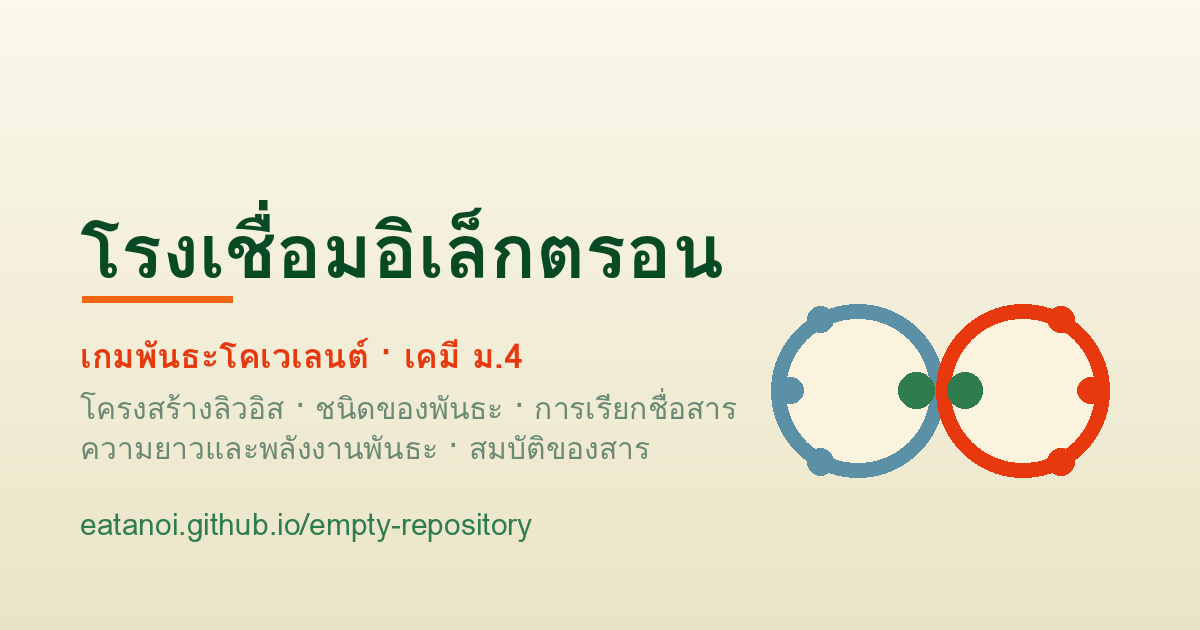
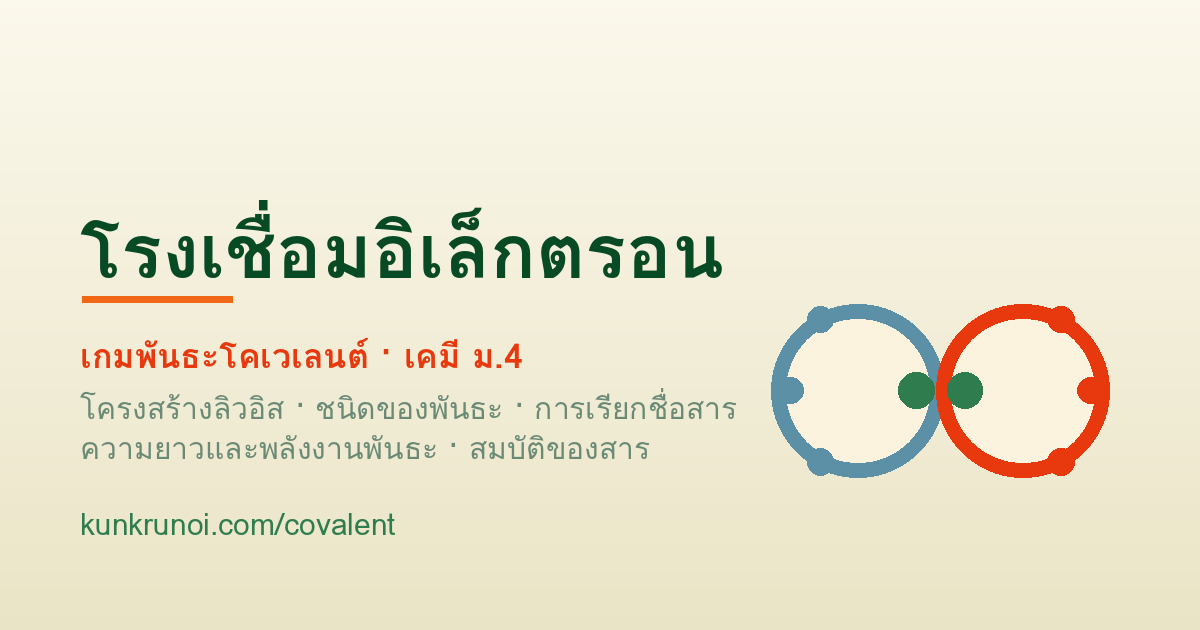
เปลี่ยนที่อยู่เว็บทั้งหมดเป็น kunkrunoi.com
เตรียมโค้ดให้พร้อมก่อนย้ายไปโดเมนของผู้สอน ลิงก์ภายในไม่ต้องแก้เลย
เพราะเป็นเส้นทางสัมพัทธ์ทั้งหมด service worker คำนวณโฟลเดอร์ฐานจาก
ตำแหน่งจริงตอนรัน และ manifest ทุกไฟล์ใช้ start_url แบบสัมพัทธ์

- og:url · og:image · twitter:image ทั้ง 10 หน้า ชี้มาที่โดเมนใหม่
- วาดข้อความโดเมนในภาพพรีวิวสำหรับแชร์ใหม่ 8 รูป โดยสร้างจาก
  สคริปต์เดิม เปลี่ยนเฉพาะบรรทัดที่อยู่เว็บ ส่วนอื่นของภาพเหมือนเดิมทุกพิกเซล
  ภาพของเกมการหายใจที่ยังค้างโดเมนเก่า gamesbiology.biologypremium.com
  ก็แก้ไปพร้อมกัน
- เขียนขั้นตอนผูกโดเมนใน ADDGAME.md ใหม่ให้ตรงกับที่ใช้จริง
  พร้อมย้ำลำดับว่าต้องตั้ง DNS ก่อนใส่ Custom domain
- ขึ้นเวอร์ชันแคช service worker ทุกเกม

ยังไม่ใส่ไฟล์ CNAME เพราะ GitHub จะสร้างให้เองตอนกรอก Custom domain
ถ้าใส่ล่วงหน้า ลิงก์ github.io จะเด้งไปหาโดเมนที่ยังไม่พร้อมทันที

Claude-Session: https://claude.ai/code/session_01VVXuCQnagFxs2vNyxUyT5H

Changed region(s): [[0.0617, 0.8143, 0.4625, 0.8746]]

diff --git a/respiration/index.html b/respiration/index.html
@@ -21,10 +21,10 @@
 
 <!-- พรีวิวตอนแชร์ลิงก์ใน LINE / Facebook / Messenger -->
 <meta property="og:type" content="website">
-<meta property="og:url" content="https://eatanoi.github.io/empty-repository/respiration/">
+<meta property="og:url" content="https://kunkrunoi.com/respiration/">
 <meta property="og:title" content="โรงไฟฟ้าไมโทคอนเดรีย — เกมการหายใจระดับเซลล์">
 <meta property="og:description" content="เกมประกอบการเรียนรู้ชีววิทยา ม.4 · ไกลโคไลซิส เครบส์ ถ่ายทอดอิเล็กตรอน การหมัก">
-<meta property="og:image" content="https://eatanoi.github.io/empty-repository/respiration/og-cai.jpg">
+<meta property="og:image" content="https://kunkrunoi.com/respiration/og-cai.jpg">
 <meta property="og:image:width" content="1200">
 <meta property="og:image:height" content="630">
 <meta property="og:image:alt" content="บทเรียนคอมพิวเตอร์ช่วยสอน เรื่องการหายใจระดับเซลล์ ชั้นมัธยมศึกษาปีที่ 4 พร้อมผังห้าขั้นตอนตั้งแต่ไกลโคไลซิสจนถึงออกซิเดทีฟฟอสโฟรีเลชัน">
@@ -32,7 +32,7 @@
 <meta name="twitter:card" content="summary_large_image">
 <meta name="twitter:title" content="โรงไฟฟ้าไมโทคอนเดรีย — เกมการหายใจระดับเซลล์">
 <meta name="twitter:description" content="เกมประกอบการเรียนรู้ชีววิทยา ม.4 · เล่นบนมือถือได้เลย">
-<meta name="twitter:image" content="https://eatanoi.github.io/empty-repository/respiration/og-cai.jpg">
+<meta name="twitter:image" content="https://kunkrunoi.com/respiration/og-cai.jpg">
 <style>
 :root{
   /* ── พาเลตเดียวกับเกมสังเคราะห์แสง: F2EDD5 · E7390D · F26716 · 084A24 · 04261E ── */

diff --git a/index.html b/index.html
@@ -20,10 +20,10 @@
 
 <!-- พรีวิวตอนแชร์ลิงก์ใน LINE / Facebook / Messenger -->
 <meta property="og:type" content="website">
-<meta property="og:url" content="https://eatanoi.github.io/empty-repository/">
+<meta property="og:url" content="https://kunkrunoi.com/">
 <meta property="og:title" content="เกมชีววิทยาและเคมี ม.4 — รวมเกมประกอบการเรียนรู้">
 <meta property="og:description" content="รวมเกม 9 เกมในที่เดียว · เล่นบนมือถือได้ · ส่งคะแนนเข้าแดชบอร์ดครู">
-<meta property="og:image" content="https://eatanoi.github.io/empty-repository/og-cover.png">
+<meta property="og:image" content="https://kunkrunoi.com/og-cover.png">
 <meta property="og:image:width" content="1200">
 <meta property="og:image:height" content="630">
 <meta property="og:image:alt" content="หน้ารวมเกมประกอบการเรียนรู้ชีววิทยาและเคมี ระดับชั้นมัธยมศึกษาปีที่ 4">
@@ -31,7 +31,7 @@
 <meta name="twitter:card" content="summary_large_image">
 <meta name="twitter:title" content="เกมชีววิทยาและเคมี ม.4 — รวมเกมประกอบการเรียนรู้">
 <meta name="twitter:description" content="รวมเกม 9 เกมในที่เดียว · เล่นบนมือถือได้เลย">
-<meta name="twitter:image" content="https://eatanoi.github.io/empty-repository/og-cover.png">
+<meta name="twitter:image" content="https://kunkrunoi.com/og-cover.png">
 <style>
 :root{
   /* ── พาเลตเดียวกับทุกเกมในเว็บไซต์: F2EDD5 · E7390D · F26716 · 084A24 · 04261E ── */

diff --git a/transport/index.html b/transport/index.html
@@ -21,17 +21,17 @@
 
 <!-- พรีวิวตอนแชร์ลิงก์ใน LINE / Facebook / Messenger -->
 <meta property="og:type" content="website">
-<meta property="og:url" content="https://eatanoi.github.io/empty-repository/transport/">
+<meta property="og:url" content="https://kunkrunoi.com/transport/">
 <meta property="og:title" content="ด่านศุลกากรเซลล์ — เกมการลำเลียงสารเข้าออกเซลล์">
 <meta property="og:description" content="เกมประกอบการเรียนรู้ชีววิทยา ม.4 · การแพร่ · ออสโมซิส · แอกทีฟทรานสปอร์ต · เอนโด/เอกโซไซโทซิส">
-<meta property="og:image" content="https://eatanoi.github.io/empty-repository/transport/og-cover.png">
+<meta property="og:image" content="https://kunkrunoi.com/transport/og-cover.png">
 <meta property="og:image:width" content="1200">
 <meta property="og:image:height" content="630">
 <meta property="og:locale" content="th_TH">
 <meta name="twitter:card" content="summary_large_image">
 <meta name="twitter:title" content="ด่านศุลกากรเซลล์ — เกมการลำเลียงสารเข้าออกเซลล์">
 <meta name="twitter:description" content="เกมประกอบการเรียนรู้ชีววิทยา ม.4 · เล่นบนมือถือได้เลย">
-<meta name="twitter:image" content="https://eatanoi.github.io/empty-repository/transport/og-cover.png">
+<meta name="twitter:image" content="https://kunkrunoi.com/transport/og-cover.png">
 <style>
 :root{
   /* ── พาเลตเดียวกับเกมสังเคราะห์แสง: F2EDD5 · E7390D · F26716 · 084A24 · 04261E ── */

diff --git a/genetics/index.html b/genetics/index.html
@@ -21,17 +21,17 @@
 
 <!-- พรีวิวตอนแชร์ลิงก์ใน LINE / Facebook / Messenger -->
 <meta property="og:type" content="website">
-<meta property="og:url" content="https://eatanoi.github.io/empty-repository/genetics/">
+<meta property="og:url" content="https://kunkrunoi.com/genetics/">
 <meta property="og:title" content="ภารกิจพันธุกรรม — เกมการถ่ายทอดลักษณะทางพันธุกรรม">
 <meta property="og:description" content="เกมประกอบการเรียนรู้ชีววิทยา ม.4 · 6 ด่าน + ด่านบอส เก็บดาว 21 ดวง">
-<meta property="og:image" content="https://eatanoi.github.io/empty-repository/genetics/og-cover.png">
+<meta property="og:image" content="https://kunkrunoi.com/genetics/og-cover.png">
 <meta property="og:image:width" content="1200">
 <meta property="og:image:height" content="630">
 <meta property="og:locale" content="th_TH">
 <meta name="twitter:card" content="summary_large_image">
 <meta name="twitter:title" content="ภารกิจพันธุกรรม — เกมการถ่ายทอดลักษณะทางพันธุกรรม">
 <meta name="twitter:description" content="เกมประกอบการเรียนรู้ชีววิทยา ม.4 · เล่นบนมือถือได้เลย">
-<meta name="twitter:image" content="https://eatanoi.github.io/empty-repository/genetics/og-cover.png">
+<meta name="twitter:image" content="https://kunkrunoi.com/genetics/og-cover.png">
 <style>
 :root{
   /* ── พาเลตเดียวกับเกมมหานครเซลล์ · ด่านศุลกากรเซลล์ · โรงไฟฟ้าไมโทคอนเดรีย ── */

diff --git a/cell/index.html b/cell/index.html
@@ -21,17 +21,17 @@
 
 <!-- พรีวิวตอนแชร์ลิงก์ใน LINE / Facebook / Messenger -->
 <meta property="og:type" content="website">
-<meta property="og:url" content="https://eatanoi.github.io/empty-repository/cell/">
+<meta property="og:url" content="https://kunkrunoi.com/cell/">
 <meta property="og:title" content="มหานครเซลล์ — เกมโครงสร้างและหน้าที่ของเซลล์">
 <meta property="og:description" content="เกมประกอบการเรียนรู้ชีววิทยา ม.4 · ออร์แกเนลล์ · เซลล์พืช–สัตว์ · เส้นทางโปรตีน · โพรคาริโอต–ยูคาริโอต">
-<meta property="og:image" content="https://eatanoi.github.io/empty-repository/cell/og-cover.png">
+<meta property="og:image" content="https://kunkrunoi.com/cell/og-cover.png">
 <meta property="og:image:width" content="1200">
 <meta property="og:image:height" content="630">
 <meta property="og:locale" content="th_TH">
 <meta name="twitter:card" content="summary_large_image">
 <meta name="twitter:title" content="มหานครเซลล์ — เกมโครงสร้างและหน้าที่ของเซลล์">
 <meta name="twitter:description" content="เกมประกอบการเรียนรู้ชีววิทยา ม.4 · เล่นบนมือถือได้เลย">
-<meta name="twitter:image" content="https://eatanoi.github.io/empty-repository/cell/og-cover.png">
+<meta name="twitter:image" content="https://kunkrunoi.com/cell/og-cover.png">
 <style>
 :root{
   /* ── พาเลตเดียวกับเกมสังเคราะห์แสง: F2EDD5 · E7390D · F26716 · 084A24 · 04261E ── */

diff --git a/reproduction/index.html b/reproduction/index.html
@@ -21,17 +21,17 @@
 
 <!-- พรีวิวตอนแชร์ลิงก์ใน LINE / Facebook / Messenger -->
 <meta property="og:type" content="website">
-<meta property="og:url" content="https://eatanoi.github.io/empty-repository/reproduction/">
+<meta property="og:url" content="https://kunkrunoi.com/reproduction/">
 <meta property="og:title" content="ภารกิจสืบสายชีวิต — เกมการสืบพันธุ์ของมนุษย์">
 <meta property="og:description" content="เกมประกอบการเรียนรู้ชีววิทยา ม.6 · ระบบสืบพันธุ์ · การสร้างสเปิร์มและเซลล์ไข่">
-<meta property="og:image" content="https://eatanoi.github.io/empty-repository/reproduction/og-cover.png">
+<meta property="og:image" content="https://kunkrunoi.com/reproduction/og-cover.png">
 <meta property="og:image:width" content="1200">
 <meta property="og:image:height" content="630">
 <meta property="og:locale" content="th_TH">
 <meta name="twitter:card" content="summary_large_image">
 <meta name="twitter:title" content="ภารกิจสืบสายชีวิต — เกมการสืบพันธุ์ของมนุษย์">
 <meta name="twitter:description" content="เกมประกอบการเรียนรู้ชีววิทยา ม.6 · เล่นบนมือถือได้เลย">
-<meta name="twitter:image" content="https://eatanoi.github.io/empty-repository/reproduction/og-cover.png">
+<meta name="twitter:image" content="https://kunkrunoi.com/reproduction/og-cover.png">
 <style>
 :root{
   /* ── พาเลตเดียวกับเกมสังเคราะห์แสง: F2EDD5 · E7390D · F26716 · 084A24 · 04261E ── */

diff --git a/covalent/index.html b/covalent/index.html
@@ -21,17 +21,17 @@
 
 <!-- พรีวิวตอนแชร์ลิงก์ใน LINE / Facebook / Messenger -->
 <meta property="og:type" content="website">
-<meta property="og:url" content="https://eatanoi.github.io/empty-repository/covalent/">
+<meta property="og:url" content="https://kunkrunoi.com/covalent/">
 <meta property="og:title" content="โรงเชื่อมอิเล็กตรอน — เกมพันธะโคเวเลนต์">
 <meta property="og:description" content="เกมประกอบการเรียนรู้เคมี ม.4 · พันธะโคเวเลนต์ · สูตรโครงสร้าง · สมบัติของสาร">
-<meta property="og:image" content="https://eatanoi.github.io/empty-repository/covalent/og-cover.png">
+<meta property="og:image" content="https://kunkrunoi.com/covalent/og-cover.png">
 <meta property="og:image:width" content="1200">
 <meta property="og:image:height" content="630">
 <meta property="og:locale" content="th_TH">
 <meta name="twitter:card" content="summary_large_image">
 <meta name="twitter:title" content="โรงเชื่อมอิเล็กตรอน — เกมพันธะโคเวเลนต์">
 <meta name="twitter:description" content="เกมประกอบการเรียนรู้เคมี ม.4 · เล่นบนมือถือได้เลย">
-<meta name="twitter:image" content="https://eatanoi.github.io/empty-repository/covalent/og-cover.png">
+<meta name="twitter:image" content="https://kunkrunoi.com/covalent/og-cover.png">
 <style>
 :root{
   /* ── พาเลตเดียวกับเกมสังเคราะห์แสง: F2EDD5 · E7390D · F26716 · 084A24 · 04261E ── */

diff --git a/metallic/index.html b/metallic/index.html
@@ -21,17 +21,17 @@
 
 <!-- พรีวิวตอนแชร์ลิงก์ใน LINE / Facebook / Messenger -->
 <meta property="og:type" content="website">
-<meta property="og:url" content="https://eatanoi.github.io/empty-repository/metallic/">
+<meta property="og:url" content="https://kunkrunoi.com/metallic/">
 <meta property="og:title" content="เมืองทะเลอิเล็กตรอน — เกมพันธะโลหะ">
 <meta property="og:description" content="เกมประกอบการเรียนรู้เคมี ม.4 · พันธะโลหะ · ทะเลอิเล็กตรอน · ผลึกโลหะ 3 มิติ · โลหะผสม">
-<meta property="og:image" content="https://eatanoi.github.io/empty-repository/metallic/og-cover.png">
+<meta property="og:image" content="https://kunkrunoi.com/metallic/og-cover.png">
 <meta property="og:image:width" content="1200">
 <meta property="og:image:height" content="630">
 <meta property="og:locale" content="th_TH">
 <meta name="twitter:card" content="summary_large_image">
 <meta name="twitter:title" content="เมืองทะเลอิเล็กตรอน — เกมพันธะโลหะ">
 <meta name="twitter:description" content="เกมประกอบการเรียนรู้เคมี ม.4 · เล่นบนมือถือได้เลย">
-<meta name="twitter:image" content="https://eatanoi.github.io/empty-repository/metallic/og-cover.png">
+<meta name="twitter:image" content="https://kunkrunoi.com/metallic/og-cover.png">
 <style>
 :root{
   /* ── พาเลตเดียวกับเกมสังเคราะห์แสง: F2EDD5 · E7390D · F26716 · 084A24 · 04261E ── */

diff --git a/division/index.html b/division/index.html
@@ -21,17 +21,17 @@
 
 <!-- พรีวิวตอนแชร์ลิงก์ใน LINE / Facebook / Messenger -->
 <meta property="og:type" content="website">
-<meta property="og:url" content="https://eatanoi.github.io/empty-repository/division/">
+<meta property="og:url" content="https://kunkrunoi.com/division/">
 <meta property="og:title" content="โรงงานสร้างเซลล์ — เกมการแบ่งเซลล์">
 <meta property="og:description" content="เกมประกอบการเรียนรู้ชีววิทยา ม.4 · วัฏจักรเซลล์ ไมโทซิส ไมโอซิส">
-<meta property="og:image" content="https://eatanoi.github.io/empty-repository/division/og-cover.png">
+<meta property="og:image" content="https://kunkrunoi.com/division/og-cover.png">
 <meta property="og:image:width" content="1200">
 <meta property="og:image:height" content="630">
 <meta property="og:locale" content="th_TH">
 <meta name="twitter:card" content="summary_large_image">
 <meta name="twitter:title" content="โรงงานสร้างเซลล์ — เกมการแบ่งเซลล์">
 <meta name="twitter:description" content="เกมประกอบการเรียนรู้ชีววิทยา ม.4 · เล่นบนมือถือได้เลย">
-<meta name="twitter:image" content="https://eatanoi.github.io/empty-repository/division/og-cover.png">
+<meta name="twitter:image" content="https://kunkrunoi.com/division/og-cover.png">
 <style>
 :root{
   /* ── พาเลตเดียวกับเกมสังเคราะห์แสง: F2EDD5 · E7390D · F26716 · 084A24 · 04261E ── */

diff --git a/ionic/index.html b/ionic/index.html
@@ -21,17 +21,17 @@
 
 <!-- พรีวิวตอนแชร์ลิงก์ใน LINE / Facebook / Messenger -->
 <meta property="og:type" content="website">
-<meta property="og:url" content="https://eatanoi.github.io/empty-repository/ionic/">
+<meta property="og:url" content="https://kunkrunoi.com/ionic/">
 <meta property="og:title" content="นครผลึกเกลือ — เกมพันธะไอออนิก">
 <meta property="og:description" content="เกมประกอบการเรียนรู้เคมี ม.4 · พันธะไอออนิก · ผลึกไอออนิก 3 มิติ · สมบัติของสาร">
-<meta property="og:image" content="https://eatanoi.github.io/empty-repository/ionic/og-cover.png">
+<meta property="og:image" content="https://kunkrunoi.com/ionic/og-cover.png">
 <meta property="og:image:width" content="1200">
 <meta property="og:image:height" content="630">
 <meta property="og:locale" content="th_TH">
 <meta name="twitter:card" content="summary_large_image">
 <meta name="twitter:title" content="นครผลึกเกลือ — เกมพันธะไอออนิก">
 <meta name="twitter:description" content="เกมประกอบการเรียนรู้เคมี ม.4 · เล่นบนมือถือได้เลย">
-<meta name="twitter:image" content="https://eatanoi.github.io/empty-repository/ionic/og-cover.png">
+<meta name="twitter:image" content="https://kunkrunoi.com/ionic/og-cover.png">
 <style>
 :root{
   /* ── พาเลตเดียวกับเกมสังเคราะห์แสง: F2EDD5 · E7390D · F26716 · 084A24 · 04261E ── */

diff --git a/reproduction/sw.js b/reproduction/sw.js
@@ -3,7 +3,7 @@
    - คำขอไปยัง Supabase (ระบบชั้นเรียน) จะไม่ถูกแคช ให้วิ่งผ่านเครือข่ายตามปกติ
    หมายเหตุ: เวลาแก้ index.html แล้ว ให้เปลี่ยนเลข CACHE ด้านล่างหนึ่งครั้ง
              เพื่อให้เครื่องนักเรียนดึงเวอร์ชันใหม่ */
-const CACHE = 'reproduction-v14';
+const CACHE = 'reproduction-v15';
 const ASSETS = [
   './',
   './index.html',

diff --git a/respiration/sw.js b/respiration/sw.js
@@ -3,7 +3,7 @@
    - คำขอไปยัง Supabase (ระบบชั้นเรียน) จะไม่ถูกแคช ให้วิ่งผ่านเครือข่ายตามปกติ
    หมายเหตุ: เวลาแก้ index.html แล้ว ให้เปลี่ยนเลข CACHE ด้านล่างหนึ่งครั้ง
              เพื่อให้เครื่องนักเรียนดึงเวอร์ชันใหม่ */
-const CACHE = 'respiration-v19';
+const CACHE = 'respiration-v20';
 const ASSETS = [
   './',
   './index.html',
